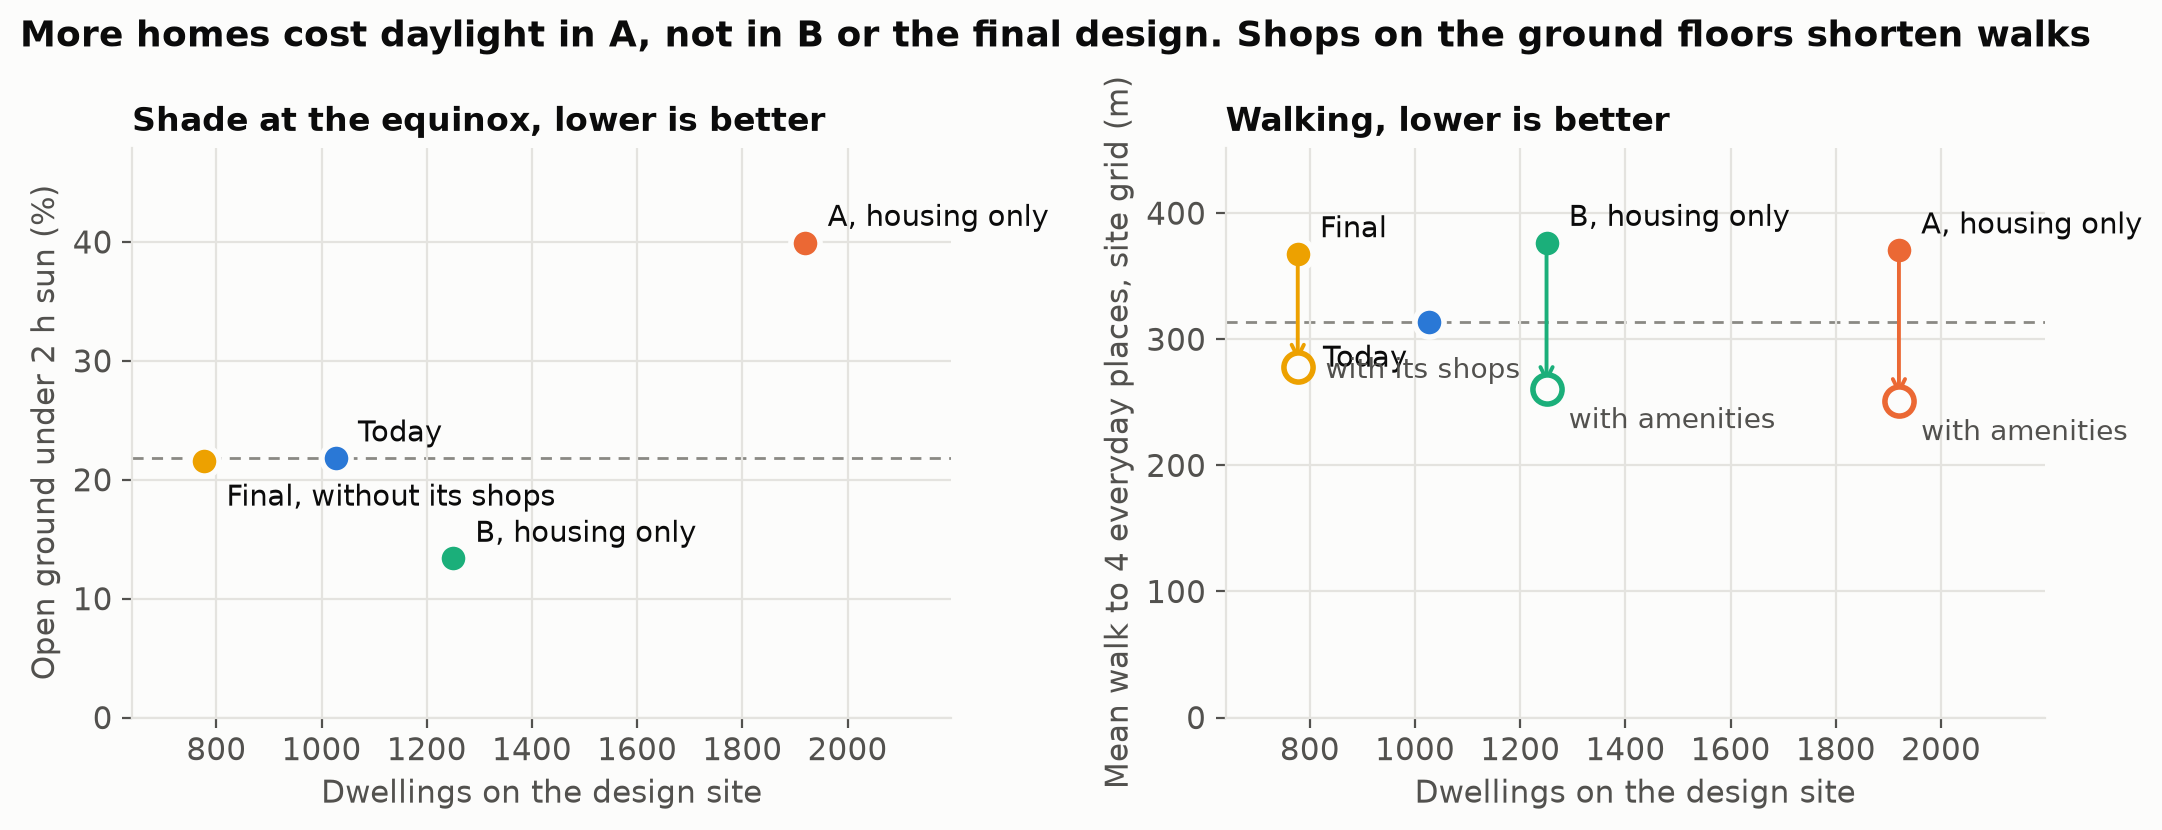
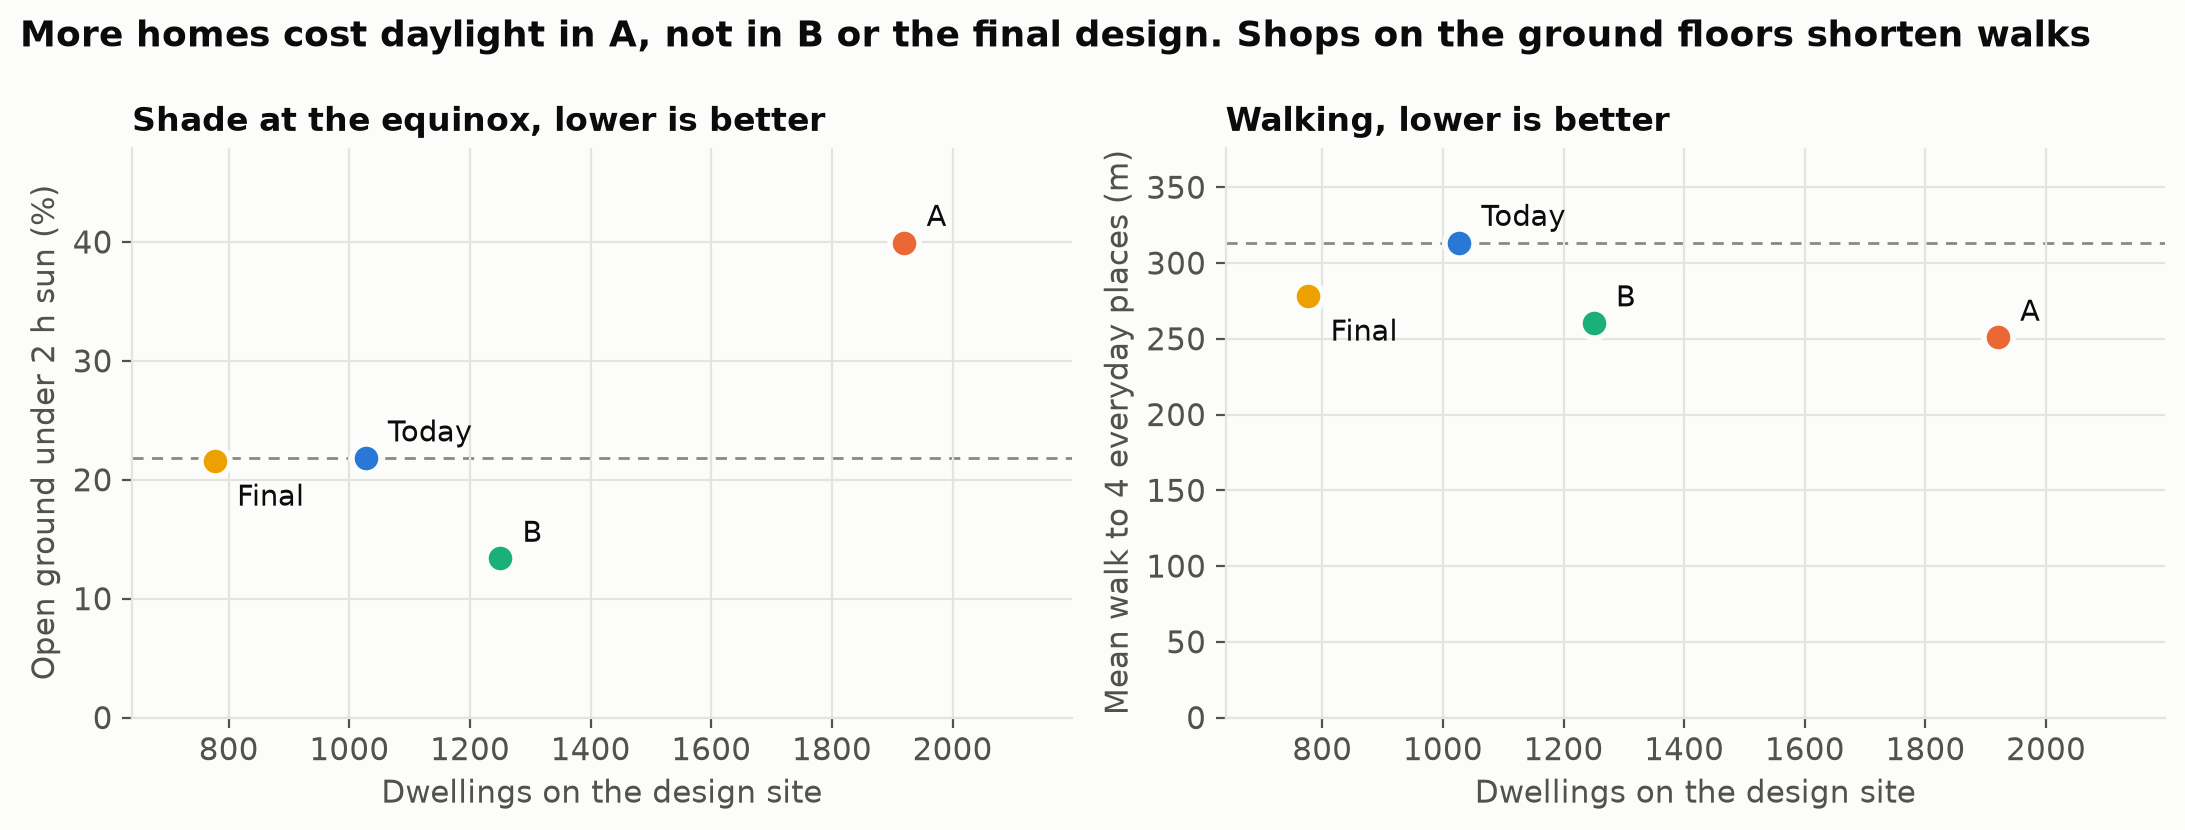
Sun-hours figures per scenario, land-use figures for the slides, comparison trims
- shadow_figure.py: one figure per scenario from CASES, the design's mask from
  burn_into_rasters(); today's figure unchanged
- make_figures.py: hill-climbing plan and the RL plan (300 dpi)
- rl_landuse.py: keeps the hill-climbing grid in landuse_rl.json
- comparison card: buildings demolished row removed
- trade-off figure: walks with the placed amenities only

diff --git a/app/modules/comparison.js b/app/modules/comparison.js
@@ -15,7 +15,6 @@ const PATH = "../data/processed/scenario_comparison.json";
 const SCEN = [["baseline", "Today"], ["scenario_a", "A"], ["scenario_b", "B"], ["final", "Final"]];  //final: the Rhino Final Model
 const ROWS = [  //key, label, digits, as a percentage
   ["dwellings", "Dwellings", 0, false],
-  ["buildings_demolished", "Buildings demolished", 0, false],
   ["fsi", "FSI", 2, false],
   ["svf_mean", "Sky view factor", 2, false],
   ["sun_under2h_0320", "Under 2 h sun, equinox", 0, true],

diff --git a/analysis/morphology/shadow_figure.py b/analysis/morphology/shadow_figure.py
@@ -1,15 +1,18 @@
 #!/usr/bin/env python3
 """
-shadow_figure.py - direct-sun hours on the design site on three days.
+shadow_figure.py - direct-sun hours on the design site on three days, per scenario.
 
 Owner: Atanas Malinkov
 
-    python analysis/morphology/shadows.py --scenario baseline    #equinox, 21 Jun, 21 Dec
-    python analysis/morphology/shadow_figure.py
+    python analysis/morphology/shadows.py                                  #every scenario, three days
+    python analysis/morphology/shadow_figure.py                            #every case in CASES
+    python analysis/morphology/shadow_figure.py --scenario scenario_a      #only these
 
-Writes docs/fig_shadow_site.png. Only open ground (nDSM < 2 m) is coloured.
-Grey has no AHN ground (buildings, built-over gardens, water), green is objects
-of 2 m or more, mostly trees.
+Writes docs/fig_shadow_site.png (today) and docs/fig_shadow_site_<scenario>.png.
+Only open ground (nDSM < 2 m) is coloured. Grey has no AHN ground (buildings,
+built-over gardens, water) or is a new block, green is objects of 2 m or more,
+mostly trees. A design's mask comes from scenario_world.burn_into_rasters(), the
+same burn-in shadows.py ran on, so the figure masks what the statistics counted.
 """
 
 import json
@@ -24,25 +27,63 @@ from common.project import PROCESSED, RAW, design_site_polygon  #noqa: E402
 ROOT = pathlib.Path(__file__).resolve().parents[2]
 DAYS = [("_2026-12-21", "21 December"), ("", "20 March (equinox)"), ("_2026-06-21", "21 June")]
 PAD_M = 120          #context around the site
+NAMES = {"baseline": "today", "scenario_a": "scenario A", "scenario_b": "scenario B",
+         "final": "final design"}  #figure titles
+CASES = [{"scenario": sc} for sc in NAMES]  #one figure per scenario
 
 
-def main():
+def masks(sc, hb, shape, wt):
+    #(open ground, tall objects, new blocks) on the hours grid for one scenario
+    import rasterio
+    from rasterio.enums import Resampling
+    from rasterio.windows import from_bounds
+
+    def read(name):
+        #one AHN raster over the hours array's own bounds, so the grids match cell for cell
+        with rasterio.open(RAW / name) as src:
+            return src.read(1, window=from_bounds(hb[0], hb[1], hb[2], hb[3], src.transform),
+                            out_shape=shape, resampling=Resampling.nearest,
+                            masked=True).filled(np.nan)
+
+    if sc == "baseline":
+        #Same mask as shadows.py's statistics. The AHN DTM is empty under
+        #buildings, so roofs are NaN here, NOT >= 2 m: grey them as such.
+        ndsm = read("ahn_ndsm_05m.tif")
+        new = np.zeros(shape, dtype=bool)
+    else:
+        #the design burned in as shadows.py did: demolished and new streets flat, new blocks raised
+        from rasterio.features import rasterize
+        sys.path.insert(0, str(pathlib.Path(__file__).resolve().parents[1] / "scenarios"))
+        from scenario_world import burn_into_rasters, load_scenario
+        dsm, dtm = burn_into_rasters(read("ahn_dsm_05m.tif"), read("ahn_dtm_05m.tif"), wt, sc)
+        ndsm = dsm - dtm  #NaN where the DTM is empty: kept buildings
+        blocks, _ = load_scenario(sc)
+        new = rasterize([(g, 1) for g in blocks.geometry], out_shape=shape, transform=wt,
+                        dtype="uint8").astype(bool)  #new blocks are buildings, not tall objects
+    open_ground = np.isfinite(ndsm) & (ndsm < 2.0) & ~new
+    tall = np.isfinite(ndsm) & (ndsm >= 2.0) & ~new  #tree crowns mostly
+    return open_ground, tall, new
+
+
+def run(p):
+    #one figure: the three days of one scenario
     import matplotlib
     matplotlib.use("Agg")
     import matplotlib.pyplot as plt
     import rasterio
-    from rasterio.enums import Resampling
     from rasterio.transform import array_bounds
     from rasterio.windows import Window, from_bounds  #Window: to cut the box to the raster
 
+    sc = p["scenario"]
+    pre = "" if sc == "baseline" else f"_{sc}"  #shadows.py's file names: _<scenario>, then the day
     site = design_site_polygon()
     x0, y0, x1, y1 = site.bounds
     x0, y0, x1, y1 = x0 - PAD_M, y0 - PAD_M, x1 + PAD_M, y1 + PAD_M
 
     fig, axes = plt.subplots(1, 3, figsize=(15, 4.9), constrained_layout=True)
     for ax, (sfx, label) in zip(axes, DAYS):
-        tif = PROCESSED / f"shadow_hours{sfx}.tif"
-        summ = json.loads((PROCESSED / f"shadow_summary{sfx}.json").read_text())
+        tif = PROCESSED / f"shadow_hours{pre}{sfx}.tif"
+        summ = json.loads((PROCESSED / f"shadow_summary{pre}{sfx}.json").read_text())
         with rasterio.open(tif) as src:
             #whole cells, cut to the raster: the box runs past the raster's south edge
             win = (from_bounds(x0, y0, x1, y1, src.transform).round_offsets().round_lengths()
@@ -50,18 +91,10 @@ def main():
             hours = src.read(1, window=win)
             wt = src.window_transform(win)
         hb = array_bounds(*hours.shape, wt)  #what the hours array really covers
-        with rasterio.open(RAW / "ahn_ndsm_05m.tif") as src:
-            #read over the hours array's own bounds, so the two grids match cell for cell
-            ndsm = src.read(1, window=from_bounds(hb[0], hb[1], hb[2], hb[3], src.transform),
-                            out_shape=hours.shape, resampling=Resampling.nearest,
-                            masked=True).filled(np.nan)
-        #Same mask as shadows.py's statistics. The AHN DTM is empty under
-        #buildings, so roofs are NaN here, NOT >= 2 m: grey them as such.
-        open_ground = np.isfinite(ndsm) & (ndsm < 2.0)
-        tall = np.isfinite(ndsm) & (ndsm >= 2.0)          #tree crowns mostly
+        open_ground, tall, _ = masks(sc, hb, hours.shape, wt)
         extent = (wt.c, wt.c + wt.a * hours.shape[1], wt.f + wt.e * hours.shape[0], wt.f)
         day_h = summ["daylight_hours"]
-        ax.set_facecolor("#9a9a9a")      #no AHN ground: buildings, built-over gardens, water
+        ax.set_facecolor("#9a9a9a")      #no AHN ground: buildings, built-over gardens, water; and new blocks
         im = ax.imshow(np.where(open_ground, hours, np.nan), extent=extent, cmap="plasma",
                        vmin=0, vmax=day_h, interpolation="nearest")
         ax.imshow(np.where(tall, 1.0, np.nan), extent=extent, cmap="Greens",
@@ -76,11 +109,25 @@ def main():
         ax.set_xticks([]); ax.set_yticks([])
         cb = fig.colorbar(im, ax=ax, shrink=0.8, orientation="horizontal", pad=0.02)
         cb.set_label("hours of direct sun on open ground")
-    fig.suptitle("Direct sun on open ground, clear sky. Grey: buildings and other cells with no "
-                 "AHN ground. Green: trees and other objects over 2 m. Blue: design site", fontsize=12)
-    out = ROOT / "docs" / "fig_shadow_site.png"
+    if sc == "baseline":  #today's title as before
+        fig.suptitle("Direct sun on open ground, clear sky. Grey: buildings and other cells with no "
+                     "AHN ground. Green: trees and other objects over 2 m. Blue: design site", fontsize=12)
+    else:
+        fig.suptitle(f"Direct sun on open ground, {NAMES[sc]}, clear sky. Grey: buildings, new blocks and "
+                     "cells with no AHN ground. Green: trees and other objects over 2 m. Blue: design site",
+                     fontsize=12)
+    out = ROOT / "docs" / f"fig_shadow_site{pre}.png"
     fig.savefig(out, dpi=130)
+    plt.close(fig)
     print(f"wrote {out.relative_to(ROOT)}")
+
+
+def main():
+    #every case by default, or only the names after --scenario
+    only = sys.argv[sys.argv.index("--scenario") + 1:] if "--scenario" in sys.argv else None
+    for c in CASES:
+        if only is None or c["scenario"] in only:
+            run(c)
     return 0
 
 

diff --git a/analysis/morphology/make_figures.py b/analysis/morphology/make_figures.py
@@ -663,6 +663,101 @@ def fig_rl_site(ca, rl, out="fig_landuse_rl_site.png",
     save(fig, out)
 
 
+def fig_hill_climb(ca, rl, out="fig_landuse_hill_climb.png"):
+    #The site today, the RL agent's best plan and the hill-climbing plan, side by side.
+    import matplotlib.patches as mpatches
+
+    classes, cols, cmap = lu_cmap(ca)
+    site = np.array(rl["site_mask"], dtype=bool)
+    hc = rl["hill_climb"]
+    plans = (("Design site today", rl["today_grid"], rl["baseline_score"], rl["baseline_objective"]),
+             ("RL agent, best plan", rl["best_grid"], rl["score"], rl["best_objective"]),
+             ("Hill climbing", hc["grid"], hc["score"], hc["best_objective"]))
+
+    #crop to the site with a little fixed context, as in fig_rl_site
+    rows, cols_ = np.where(site)
+    m = 3
+    r0, r1 = max(0, rows.min() - m), min(site.shape[0], rows.max() + m + 1)
+    c0, c1 = max(0, cols_.min() - m), min(site.shape[1], cols_.max() + m + 1)
+    crop = (slice(r0, r1), slice(c0, c1))
+
+    fig, axes = plt.subplots(1, 3, figsize=(10.5, 4.3))
+    fig.subplots_adjust(left=0.02, right=0.98, top=0.74, bottom=0.12, wspace=0.06)
+    for ax, (title, g, sc, obj) in zip(axes, plans):
+        g = np.array(g, dtype="int16")
+        ax.imshow(g[crop], cmap=cmap, vmin=0, vmax=len(classes) - 1, interpolation="nearest")
+        veil = np.where(site[crop], 0.0, 0.6)  #the fixed surroundings, washed out
+        ax.imshow(np.dstack([np.full(veil.shape, c) for c in to_rgba(SURFACE)[:3]] + [veil]),
+                  interpolation="nearest")
+        outline_site(ax, site[crop])
+        ax.set_xticks([]); ax.set_yticks([])
+        for sp in ax.spines.values():
+            sp.set_visible(False)
+        d = sc["mean_distance_to_amenity_m"]
+        ax.set_title(f"{title}, objective {obj:.3f}\n"
+                     f"mix {sc['landuse_mix']:.3f} · green {100 * sc['green_share']:.0f} %\n"
+                     f"{sc['residential_cells']} housing cells · "
+                     f"{'–' if d is None else f'{d:.0f} m'} to amenity",
+                     fontsize=9, color=INK, pad=4)  #two short lines, so the three captions do not run together
+
+    handles = [mpatches.Patch(color=cols[classes.index(k)], label=k) for k in LU_LEGEND]
+    leg = fig.legend(handles=handles, frameon=False, fontsize=8, ncol=len(handles),
+                     loc="lower center", bbox_to_anchor=(0.5, 0.0), handlelength=1.1)
+    for t in leg.get_texts():
+        t.set_color(INK_2)
+    fig.suptitle("Hill climbing beats the RL agent on the same objective",
+                 x=0.012, y=0.99, ha="left", fontsize=11, fontweight="bold", color=INK)
+    fig.text(0.012, 0.915,
+             f"Hill climbing: random start, one cell changed at a time, kept if the objective does not drop · "
+             f"{hc['evaluations']:,} tries, {hc['accepted_moves']:,} kept, {hc['seconds']:.0f} s · "
+             f"RL: {rl['parameters']['episodes']} training episodes",
+             fontsize=8.5, color=INK_2, ha="left", va="top")
+    save(fig, out)
+
+
+def fig_rl_plan(ca, rl, out="fig_landuse_rl_plan.png"):
+    #The RL agent's best plan on its own, large and sharp, for a slide.
+    import matplotlib.patches as mpatches
+
+    classes, cols, cmap = lu_cmap(ca)
+    site = np.array(rl["site_mask"], dtype=bool)
+    plan = np.array(rl["best_grid"], dtype="int16")
+    sc = rl["score"]
+
+    #crop to the site with a little fixed context, as in fig_rl_site
+    rows, cols_ = np.where(site)
+    m = 2
+    r0, r1 = max(0, rows.min() - m), min(site.shape[0], rows.max() + m + 1)
+    c0, c1 = max(0, cols_.min() - m), min(site.shape[1], cols_.max() + m + 1)
+    crop = (slice(r0, r1), slice(c0, c1))
+
+    fig, ax = plt.subplots(figsize=(6.4, 4.6))
+    fig.subplots_adjust(left=0.01, right=0.99, top=0.84, bottom=0.11)
+    ax.imshow(plan[crop], cmap=cmap, vmin=0, vmax=len(classes) - 1, interpolation="nearest")
+    veil = np.where(site[crop], 0.0, 0.6)  #the fixed surroundings, washed out
+    ax.imshow(np.dstack([np.full(veil.shape, c) for c in to_rgba(SURFACE)[:3]] + [veil]),
+              interpolation="nearest")
+    outline_site(ax, site[crop])
+    ax.set_xticks([]); ax.set_yticks([])
+    for sp in ax.spines.values():
+        sp.set_visible(False)
+
+    handles = [mpatches.Patch(color=cols[classes.index(k)], label=k) for k in LU_LEGEND]
+    leg = fig.legend(handles=handles, frameon=False, fontsize=9, ncol=len(handles),
+                     loc="lower center", bbox_to_anchor=(0.5, 0.0), handlelength=1.1)
+    for t in leg.get_texts():
+        t.set_color(INK_2)
+    d = sc["mean_distance_to_amenity_m"]
+    fig.suptitle(f"The RL agent's best plan, objective {rl['best_objective']:.3f}",
+                 x=0.02, y=0.98, ha="left", fontsize=12, fontweight="bold", color=INK)
+    fig.text(0.02, 0.905, f"mix {sc['landuse_mix']:.3f} · green {100 * sc['green_share']:.0f} % · "
+             f"{sc['residential_cells']} housing cells · {'–' if d is None else f'{d:.0f} m'} to amenity · "
+             f"25 m cells, surroundings fixed", fontsize=9.5, color=INK_2, ha="left", va="top")
+    fig.savefig(DOCS / out, dpi=300, facecolor=fig.get_facecolor())  #300 dpi, sharper than the 150 dpi house figures
+    plt.close(fig)
+    print(f"  wrote docs/{out}")
+
+
 #==================================================================== main
 def main():
     need = [PROCESSED / "svf.tif", PROCESSED / "svf_summary.json",
@@ -730,6 +825,10 @@ def main():
                 fig_rl_site(abm, rl)
             if rl and rl.get("random_policy"):  #the training curve against both baselines
                 fig_rl_training(rl)
+            if rl and (rl.get("hill_climb") or {}).get("grid"):  #the hill-climbing plan next to the agent's
+                fig_hill_climb(abm, rl)
+            if rl and rl.get("best_grid"):  #the agent's plan alone, at slide resolution
+                fig_rl_plan(abm, rl)
     else:
         print("  (skipping ABM figure: run ca_landuse.py first)")
 

diff --git a/analysis/comparison/compare_scenarios.py b/analysis/comparison/compare_scenarios.py
@@ -615,8 +615,7 @@ FIGURES = [  #one dict per figure: the function and its control parameters
     {"fn": fig_scorecard, "out": "fig_compare_scorecard.png", "w": 10.5, "full_at": 0.5, "min_change": 0.02},
     {"fn": fig_tradeoff, "out": "fig_compare_tradeoff.png", "w": 11,
      "panels": [("sun_under2h_0320", "Shade at the equinox, lower is better", "Open ground under 2 h sun (%)", True),
-                ("walk_grid_m", "Walking, lower is better", "Mean walk to 4 everyday places, site grid (m)", False)],
-     "then": {"walk_grid_m": "walk_grid_amen_m"}},  #arrow from housing only to the option with the placed amenities
+                ("walk_grid_amen_m", "Walking, lower is better", "Mean walk to 4 everyday places (m)", False)]},  #with the placed amenities only, today with its own (Atanas, 2026-11-04)
     {"fn": fig_distributions, "out": "fig_compare_distributions.png", "w": 13, "rasters": True},
     {"fn": fig_difference, "out": "fig_compare_difference_maps.png", "w": 13, "rasters": True},
     {"fn": fig_walking, "out": "fig_compare_walking.png", "w": 11},

diff --git a/analysis/abm_landuse/rl_landuse.py b/analysis/abm_landuse/rl_landuse.py
@@ -262,7 +262,8 @@ def main():
         th = time.time()
         hb, hg, he, ha = hill_climb(p["hill_climb"])
         hc = {"evaluations": he, "accepted_moves": ha, "best_objective": round(hb, 4),
-              "score": site_score(hg, p["cell"], site), "seconds": round(time.time() - th, 1)}
+              "score": site_score(hg, p["cell"], site), "seconds": round(time.time() - th, 1),
+              "grid": hg.tolist()}  #the plan itself, for the figure next to the RL agent's
         print(f"  hill climbing, {he} evaluations: best {hb:.4f} ({time.time() - th:.0f} s)")
     greedy_score = site_score(greedy_grid, p["cell"], site)
     g = best_grid  #report the best episode's plan, which may include lucky exploration
